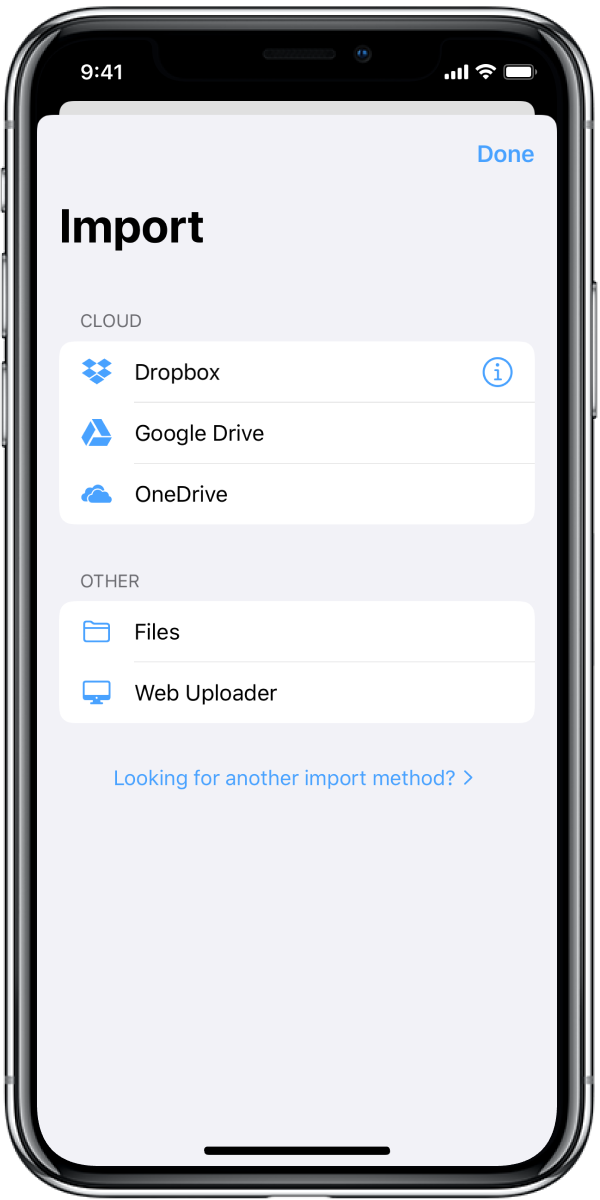
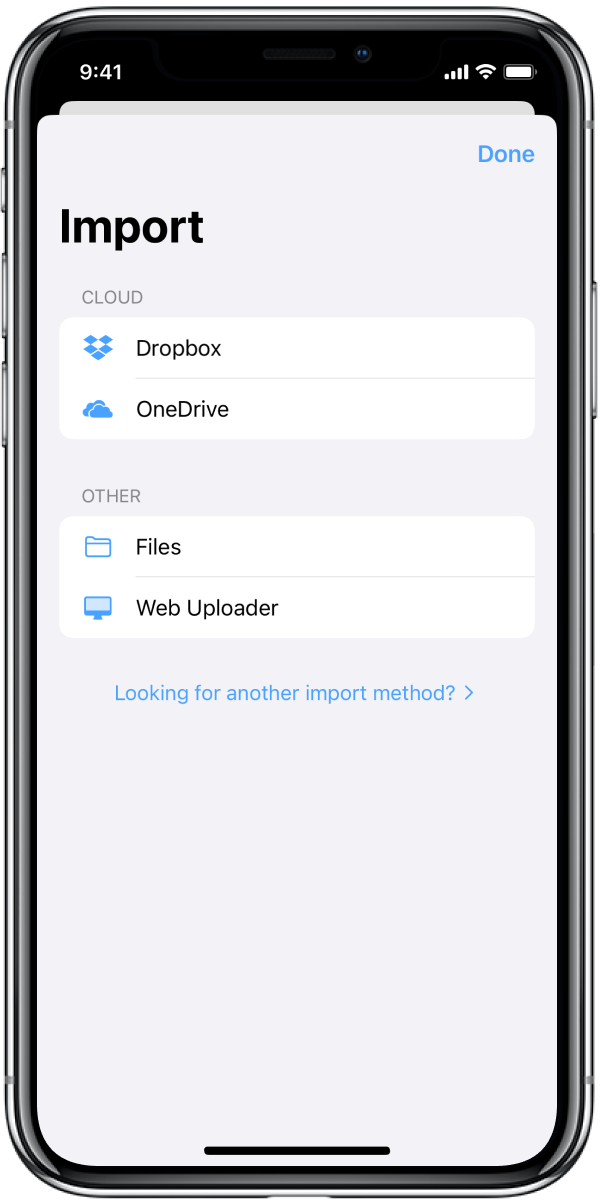
Updated copywrite, images, and added Google Drive copy.

diff --git a/docs/bound/faq/index.html b/docs/bound/faq/index.html
@@ -81,6 +81,14 @@
 	<p>If you do not see your preferred cloud service in Bound, you may still be able to use
 	it. Many cloud services support integration with Apple’s Files app and can be used to
 	import files directly into Bound.</p>
+	<p class="g-drive-note"><b>GOOGLE DRIVE NOTE:</b> Starting with version 2024.1 (released in March 2024), Bound no longer supports Google Drive. 
+	Google has requested that Bound undergo costly, lengthy, and annual audits in order to continue using the Google 
+	Drive API. Unfortunately, Bound does not make the revenue necessary to make this financially work and as a 
+	result, built-in Google Drive had to be removed. I will continue to monitor this situation and bring back support for Google Drive as
+	soon as I am able to.</p>
+	<p class="g-drive-note">Fortunately, <b>Google Drive continues to work via the Apple 
+	Files app integration after installing the Google Drive app.</b> You can download the Google Drive app 
+	<a href="https://apps.apple.com/us/app/google-drive/id507874739">here</a> and follow the below directions.</p>
 	<ol>
 		<li>Download and set up the third-party cloud app.</li>
 		<li>In Bound, tap the Add Audiobook button.</li>
@@ -158,7 +166,7 @@
 
   <div class="copyright">
     <div class="container">
-	  © 2023 <a class="policy-link" href="../../">Deadpan</a>
+	  © 2024 <a class="policy-link" href="../../">Deadpan</a>
       <span>&#8226;</span>
       <a class="policy-link" href="../privacy">Privacy Policy</a>
 	  <span>&#8226;</span>

diff --git a/docs/bound/privacy/index.html b/docs/bound/privacy/index.html
@@ -59,7 +59,6 @@
     <ul class="privacy-links">
       <li><a href="https://www.dropbox.com/privacy2019">Dropbox</a></li>
       <li><a href="https://firebase.google.com/policies/analytics">Firebase Analytics</a></li>
-      <li><a href="https://policies.google.com/privacy">Google Drive</a></li>
       <li><a href="https://privacy.microsoft.com/en-us/privacystatement">Microsoft OneDrive</a></li>
     </ul>
 
@@ -131,6 +130,7 @@
     <p>If we decide to change our privacy policy, we will post those changes
       on this page. Summary of changes so far:</p>
     <ul class="privacy-links">
+      <li>March 6, 2024: Removed Google Drive from list of associated privacy policies.</li>
       <li>January 19, 2020: Updated contact email address.</li>
       <li>October 14, 2019: First published.</li>
     </ul>
@@ -153,7 +153,7 @@
 
   <div class="copyright">
     <div class="container">
-      © 2023 <a class="policy-link" href="../../">Deadpan</a>
+      © 2024 <a class="policy-link" href="../../">Deadpan</a>
       <span>&#8226;</span>
       <a class="policy-link" href="../privacy">Privacy Policy</a>
 	  <span>&#8226;</span>

diff --git a/docs/ephemera/presskit/index.html b/docs/ephemera/presskit/index.html
@@ -196,7 +196,7 @@
         <img src="../images/deadpan-circle-type.svg" alt="Deadpan Logo" class="deadpan-logo centered-image">
       </a>
       <p>Made by Tim Bueno in NYC</p>
-      <p class="copyright">© 2023 Deadpan</p>
+      <p class="copyright">© 2024 Deadpan</p>
     </div>
     <div class="third-span-column">
       <h3>Information</h3>

diff --git a/docs/scanboy/presskit/index.html b/docs/scanboy/presskit/index.html
@@ -189,7 +189,7 @@
         <img src="../images/deadpan-circle-type.svg" alt="Deadpan Logo" class="deadpan-logo centered-image">
       </a>
       <p>Made by Tim Bueno in NYC</p>
-      <p class="copyright">© 2023 Deadpan</p>
+      <p class="copyright">© 2024 Deadpan</p>
     </div>
     <div class="third-span-column">
       <h3>Information</h3>

diff --git a/docs/scanboy/privacypolicy/index.html b/docs/scanboy/privacypolicy/index.html
@@ -105,7 +105,7 @@
         <img src="../images/deadpan-circle-type.svg" alt="Deadpan Logo" class="deadpan-logo centered-image">
       </a>
       <p>Made by Tim Bueno in NYC</p>
-      <p class="copyright">© 2023 Deadpan</p>
+      <p class="copyright">© 2024 Deadpan</p>
     </div>
     <div class="third-span-column">
       <h3>Information</h3>

diff --git a/docs/ephemera/index.html b/docs/ephemera/index.html
@@ -163,7 +163,7 @@
         <img src="./images/deadpan-circle-type.svg" alt="Deadpan Logo" class="deadpan-logo centered-image">
       </a>
       <p>Made by Tim Bueno in NYC</p>
-      <p class="copyright">© 2023 Deadpan</p>
+      <p class="copyright">© 2024 Deadpan</p>
     </div>
     <div class="third-span-column">
       <h3>Information</h3>

diff --git a/docs/scanboy/index.html b/docs/scanboy/index.html
@@ -166,7 +166,7 @@
         <img src="./images/deadpan-circle-type.svg" alt="Deadpan Logo" class="deadpan-logo centered-image">
       </a>
       <p>Made by Tim Bueno in NYC</p>
-      <p class="copyright">© 2023 Deadpan</p>
+      <p class="copyright">© 2024 Deadpan</p>
     </div>
     <div class="third-span-column">
       <h3>Information</h3>

diff --git a/docs/ephemera/privacypolicy/index.html b/docs/ephemera/privacypolicy/index.html
@@ -94,7 +94,7 @@
         <img src="../images/deadpan-circle-type.svg" alt="Deadpan Logo" class="deadpan-logo centered-image">
       </a>
       <p>Made by Tim Bueno in NYC</p>
-      <p class="copyright">© 2023 Deadpan</p>
+      <p class="copyright">© 2024 Deadpan</p>
     </div>
     <div class="third-span-column">
       <h3>Information</h3>

diff --git a/docs/bound/index.html b/docs/bound/index.html
@@ -126,7 +126,7 @@
 
   <div class="copyright">
     <div class="container">
-      © 2023 <a class="policy-link" href="../">Deadpan</a>
+      © 2024 <a class="policy-link" href="../">Deadpan</a>
       <span>&#8226;</span>
       <a class="policy-link" href="./privacy">Privacy Policy</a>
 	  <span>&#8226;</span>

diff --git a/docs/bound/css/custom.css b/docs/bound/css/custom.css
@@ -205,6 +205,12 @@ cite {
   }
 }
 
+/* FAQ
+–––––––––––––––––––––––––––––––––––––––––––––––––– */
+.g-drive-note {
+  color: red;
+}
+
 /* Bigger than 750 */
 @media (min-width: 750px) {
   .logo {

diff --git a/docs/index.html b/docs/index.html
@@ -194,7 +194,7 @@
     <img src="./images/deadpan-circle-type-footer.svg" alt="Deadpan Logo">
   </div>
   <div class="row footer">
-    <p>© 2023 Deadpan</p>
+    <p>© 2024 Deadpan</p>
   </div>
 </section>
 
